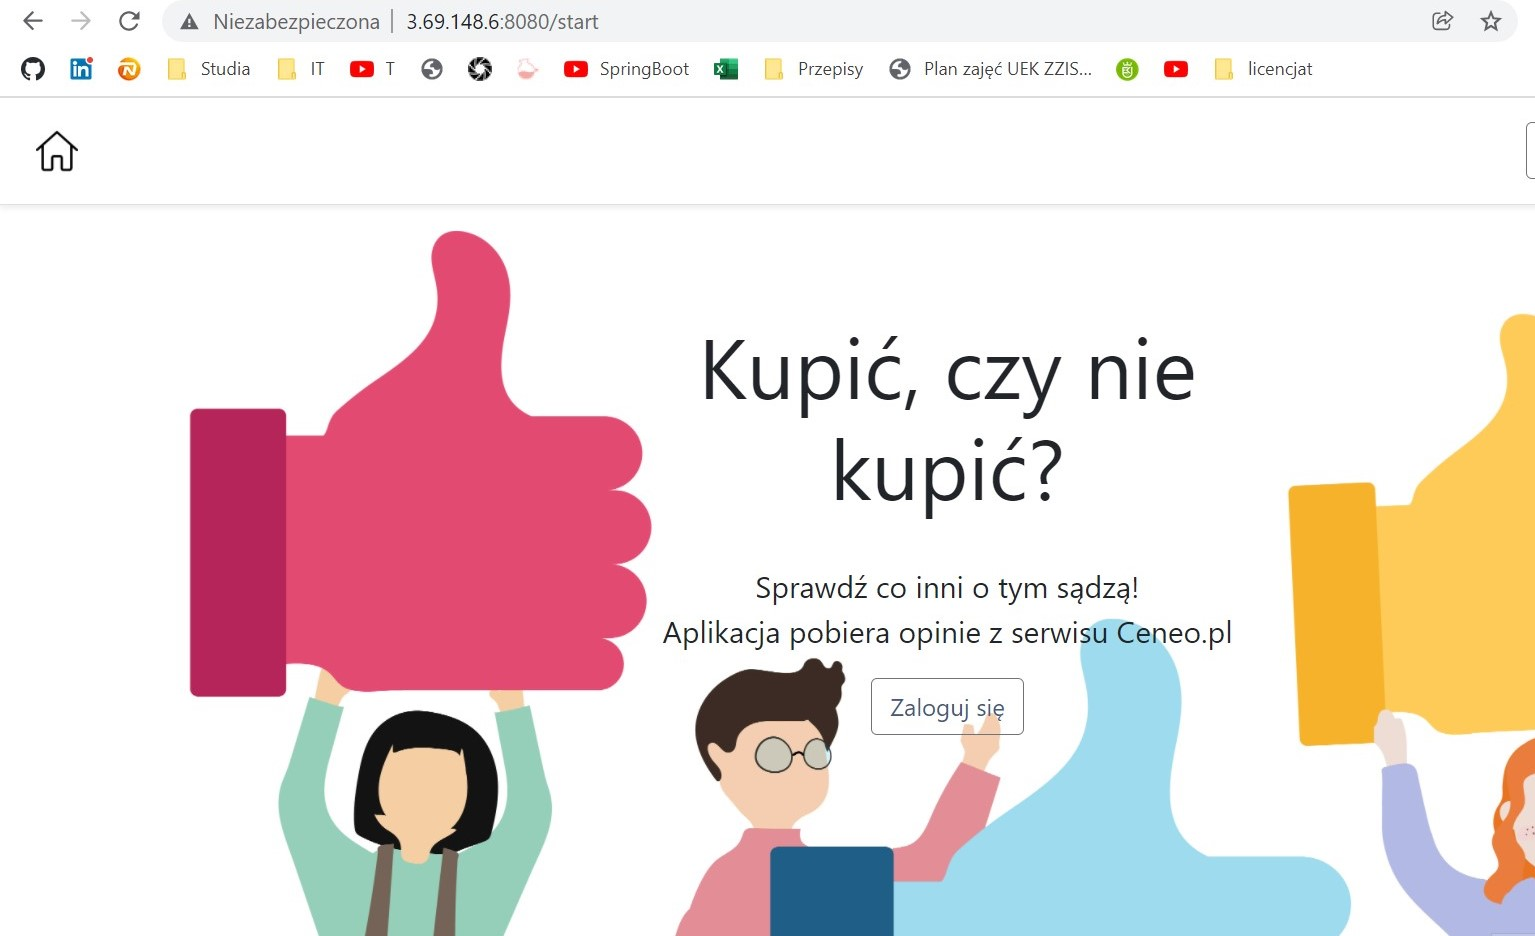
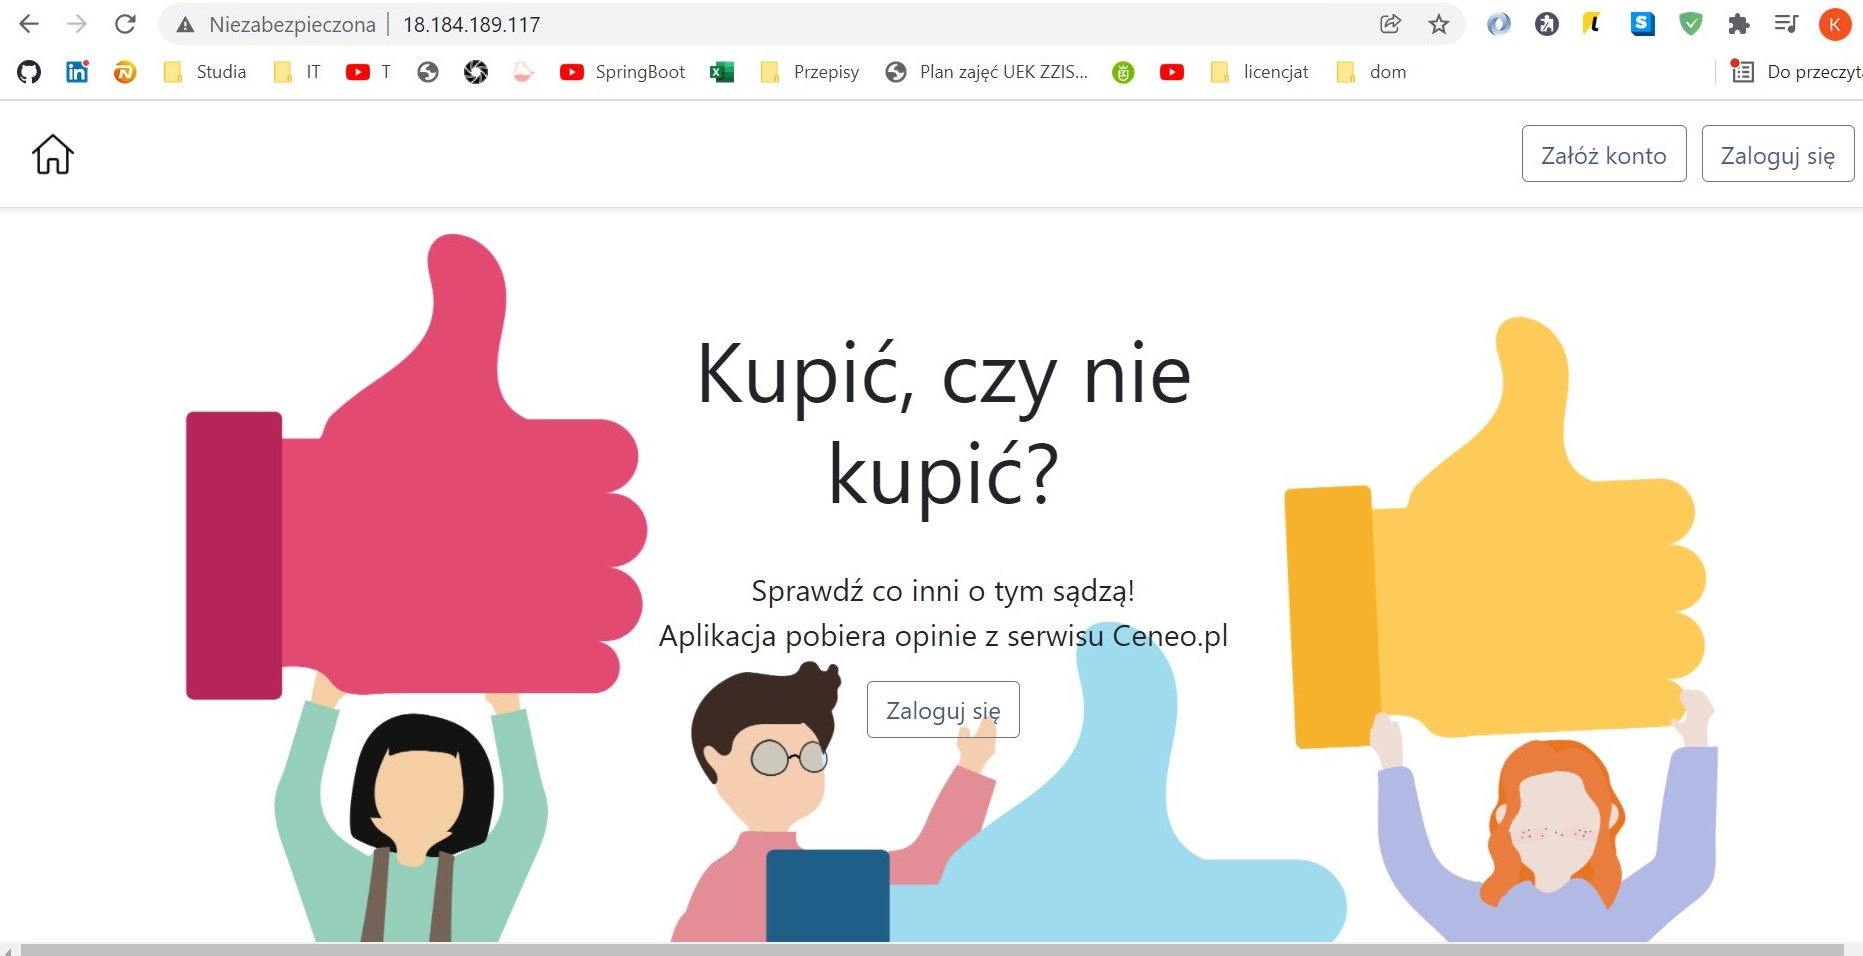
new network

diff --git a/README.md b/README.md
@@ -10,7 +10,7 @@ This repository contains two Ansible Playbooks:
 
 ## setup-flaskApp.yaml
 <hr>
-First part of this file (starts with `hosts: flask_node`) is a configuration for run flask application, the second part (starts with `hosts: load_balancer`) is an appendix - configuration for simple proxy server. We will focus only on this first part installation steps:
+First part of this file (starts with `hosts: flask_node`) is a configuration for run flask application:
 
 1. `install os packages` - install packages: python3, python3-pip, git using yum<br>
 2. `sync repo` - get a git repository (*https://github.com/kingaborycka/CeneoScraper.git*) to the target place on server (*"/opt/CeneoScrapper"*)
@@ -18,6 +18,21 @@ First part of this file (starts with `hosts: flask_node`) is a configuration for
 4. `create venv` - create a virtual environment with python3
 5. `put systemd cfg` - put flask app configuration file to the target place on server (*/etc/systemd/system/CeneoScrapper.service*)
 6. `start service` - start service (CeneoScrapper Application on port 8080) 
+
+The second part (starts with `hosts: load_balancer`) is a configuration for a simple server proxy.
+
+LAN: 172.31.0.0/20
+
+## Server with Flask App:
+public IP address: 3.71.10.1
+private IP address: 172.31.17.234
+
+## Server Proxy:
+public IP address: 18.184.189.117
+private IP address: 172.31.19.237
+
+Server Proxy redirects all calls to the server with running Flask App (172.31.17.234:8080)
+
 <br>
 
 ![Flask App](/files/images/flask.jpg "Flask App")
